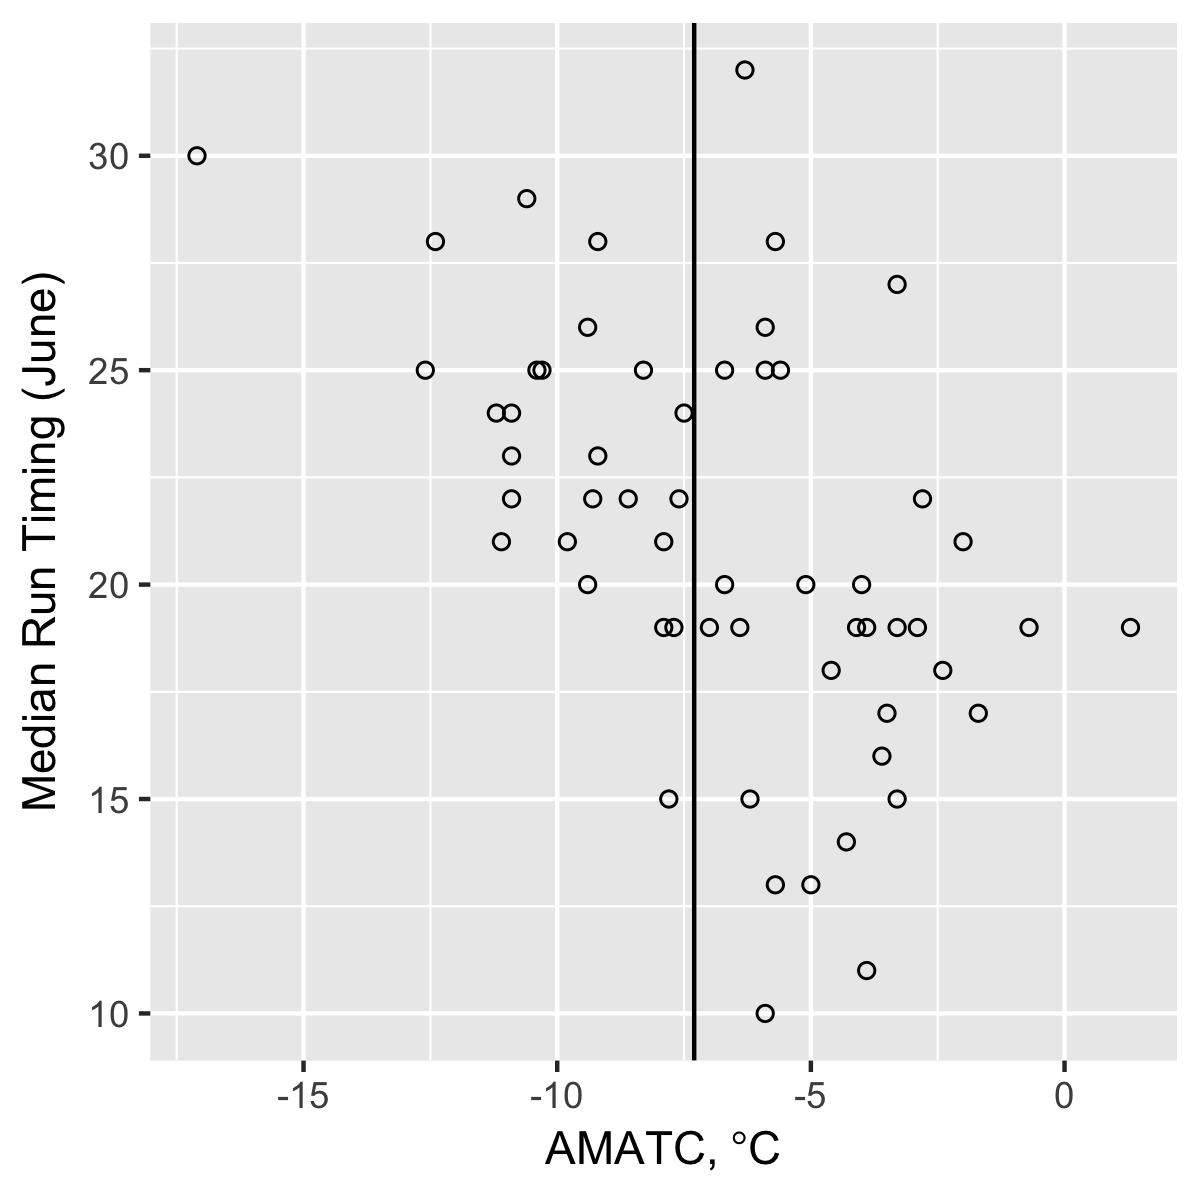
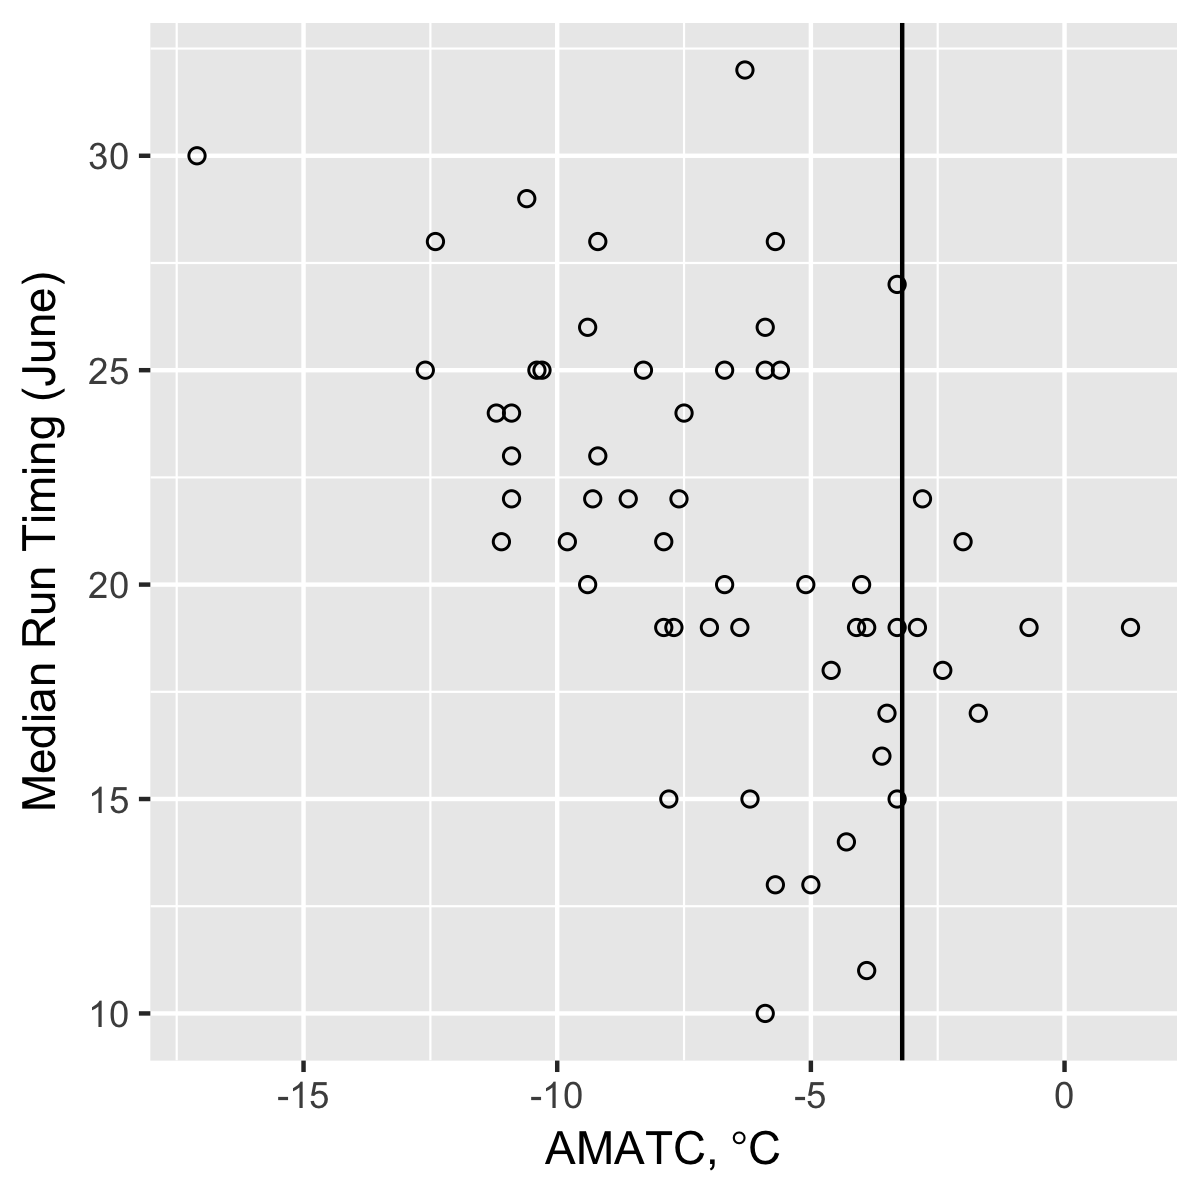
Complete draft April forecast

Changed region(s): [[0.74, 0.0308, 0.7708, 0.8633], [0.555, 0.0308, 0.5858, 0.8633]]

diff --git a/april_forecast/README.md b/april_forecast/README.md
@@ -1,34 +1,29 @@
 Data Aquisition
 ---------------
 
-The 2018 value of AMATC was retrieved using the
-[rnoaa](https://github.com/ropensci/rnoaa) R package which uses the
-[NOAA CDO](https://www.ncdc.noaa.gov/cdo-web/) API. The daily values of
-average daily temperature (TAVG) were averaged together to calculate
-AMATC. This isn’t necessarily how NOAA calculates average monthly
-temperatures but this gets us access to the value earlier and tends to
-be close enough to the final monthly average temperature to not affect
-our results.
+The 2018 value of AMATC was retrieved using manually using
+<http://w2.weather.gov/climate/xmacis.php?wfo=pafg>. The value was -3.2
+°C.
 
 Graphical Analysis
 ------------------
 
-How does the 2018 value of AMATC, -7.3, compare to the historical data?
+How does the 2018 value of AMATC, -3.2, compare to the historical data?
 
 ![](README_files/figure-markdown_strict/amatc_plot-1.png)
 
-**Intepretation:** An AMATC of -7.3 C is just about in the middle of the
-historical range for this variable so we should expect an average run
-timing.
+**Intepretation:** An AMATC of -3.2 °C slightly warmer than average
+(-6.7 °C) so we would expect a slightly early run timing.
 
 Forecast
 --------
 
-To forecast MDJ for 2018, I followed the approach as in previous years.
+To forecast MDJ for 2018, I followed the approach as in previous years:
 
 I fit a simple linear model of AMATC vs. MDJ using 55 years (1961 –
 2017) of historical AMATC and MDJ. I then predicted the 2018 MDJ using
-the fitted model which came out to be **June 21**.
+the fitted model which came out to be **June 18** which is just slightly
+earlier than average (mean 21).
 
 ### Hindcasting
 
